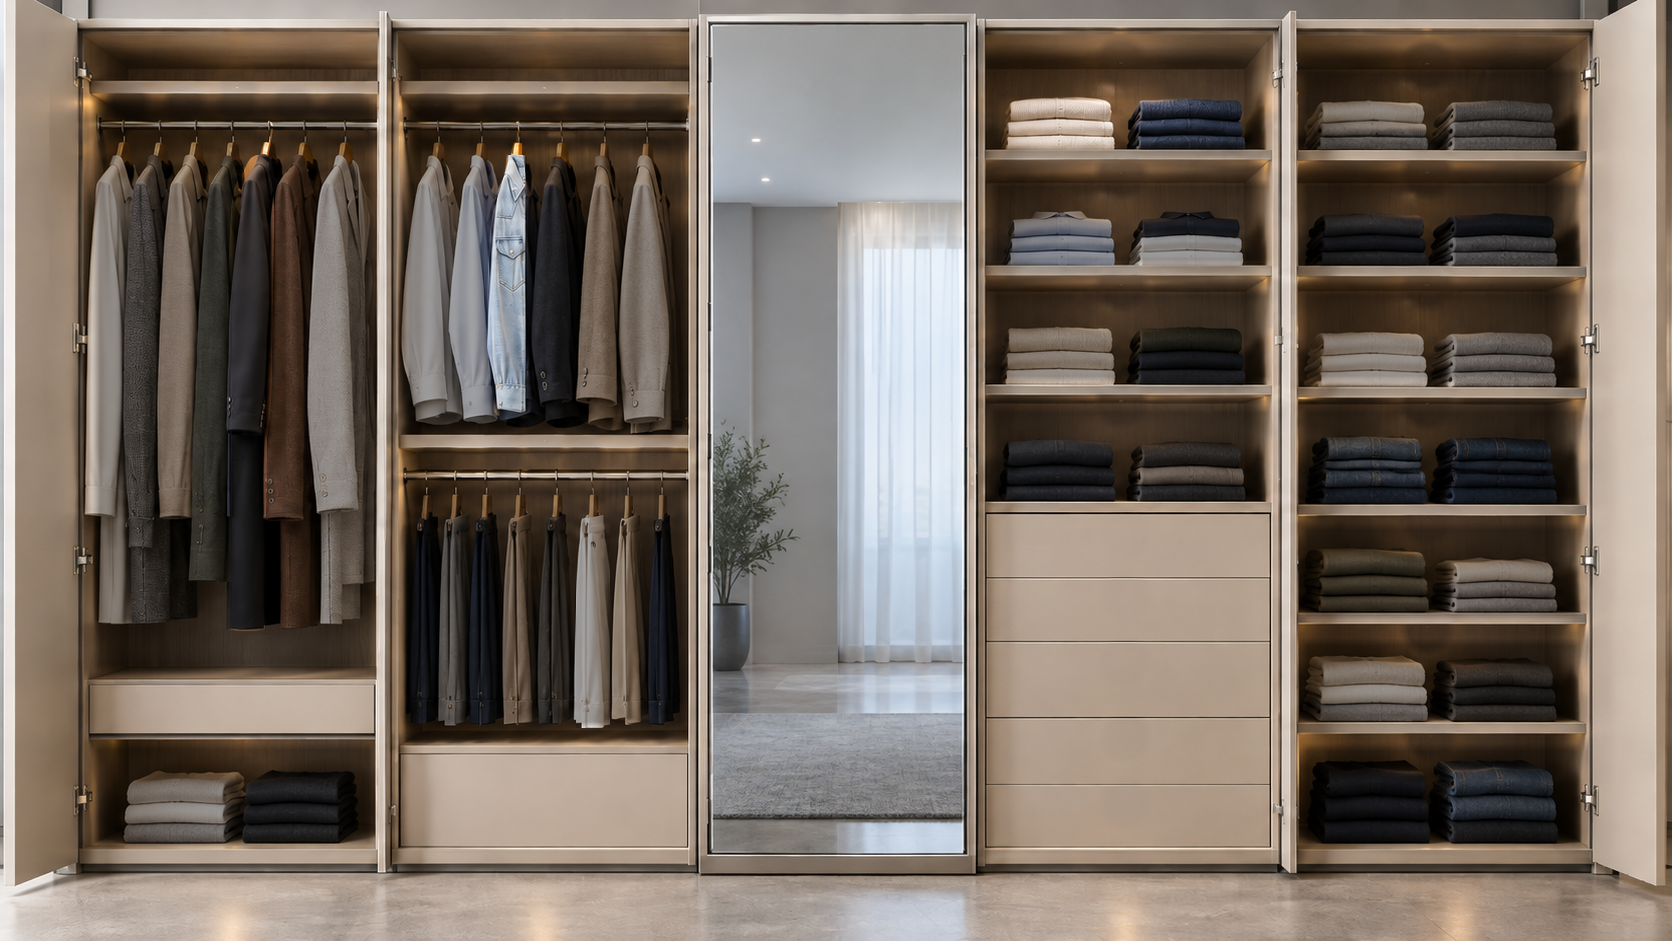
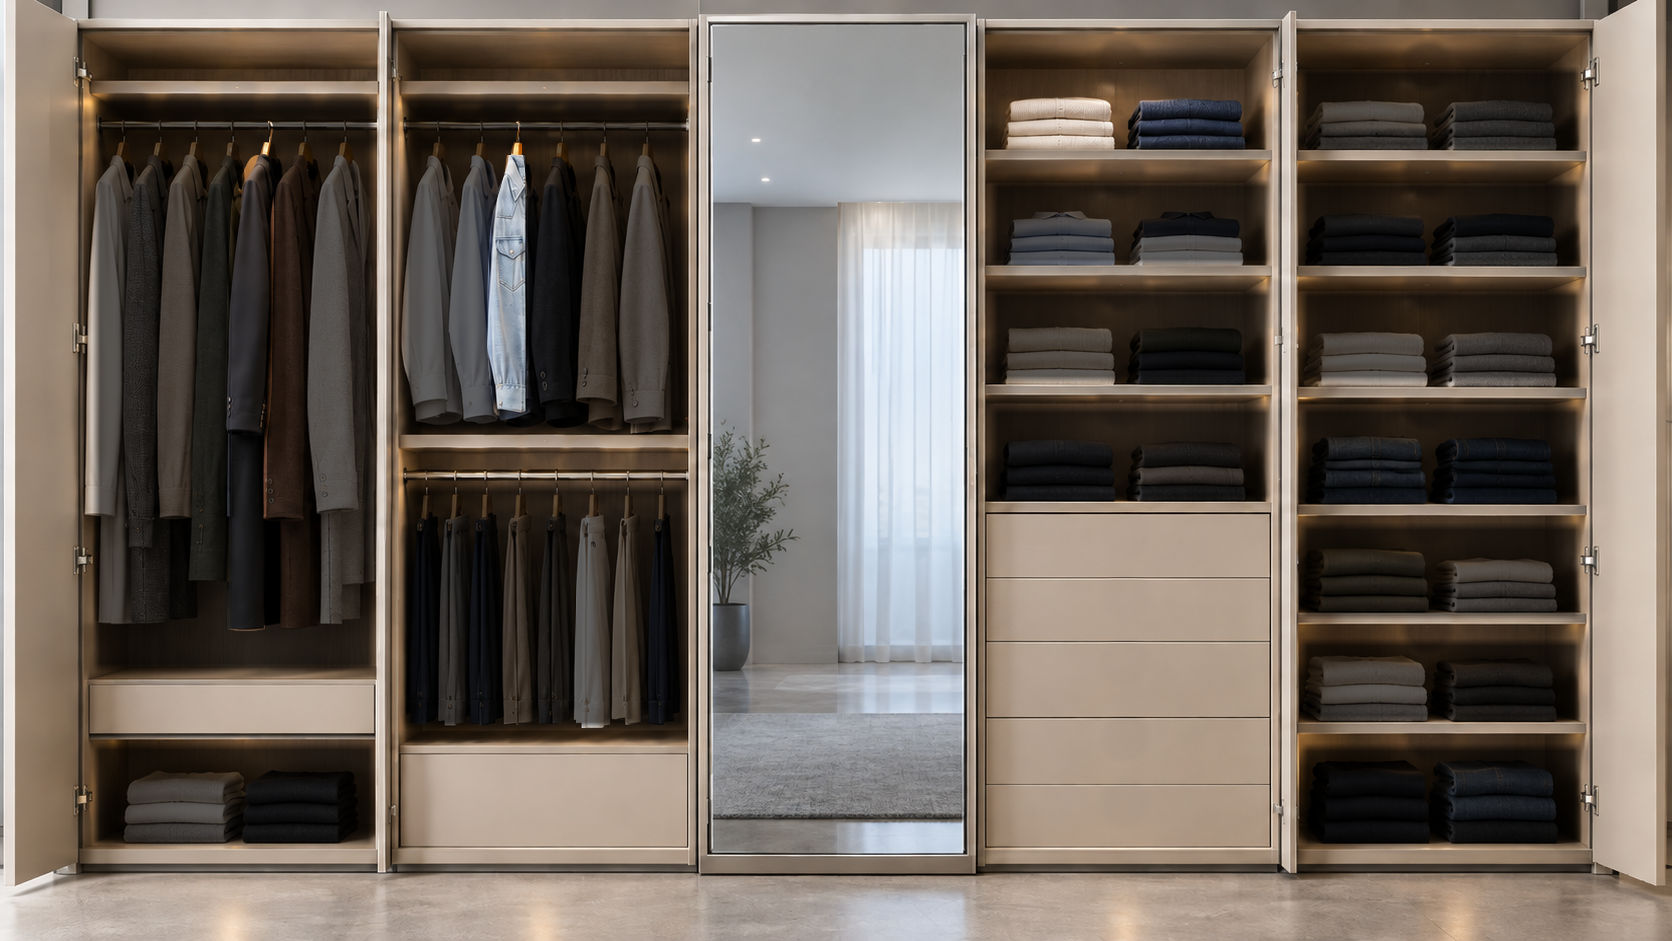
fix: dim unselected wardrobe lighting by sixty percent

diff --git a/docs/handoff/SMART_WARDROBE_CODEX_HANDOFF_2026-10-11/reports/wardrobe-lighting-review-v1/review.html b/docs/handoff/SMART_WARDROBE_CODEX_HANDOFF_2026-10-11/reports/wardrobe-lighting-review-v1/review.html
@@ -11,11 +11,11 @@ body{margin:20px;font:16px/1.5 system-ui;background:#eee9e1;color:#30291f}h1{fon
 <nav aria-label="검수용 의류 선택">
 <button data-selection="" aria-pressed="true">기본 조명</button><button data-selection="A" aria-pressed="false">A5 코트 섹터 찾기</button><button data-selection="B" aria-pressed="false">B3 셔츠 섹터 찾기</button><button data-selection="E1" aria-pressed="false">K1·K2 접힌 니트 찾기</button><button data-selection="A,B,E1" aria-pressed="false">세 칸 함께 찾기</button><button id="unknown">위치 미확인</button>
 </nav>
-<div><label>비선택 칸 감광<input id="dim" type="range" min="0" max="0.6" step="0.02" value="0.34"><output id="dim-value">34%</output></label><label><input id="auto" type="checkbox">검수용 5초 자동 소등</label><label><input id="ui" type="checkbox" checked>실제 미러 UI 캡처 표시</label></div>
+<div><label>비선택 칸 감광<input id="dim" type="range" min="0" max="0.6" step="0.02" value="0.60"><output id="dim-value">60%</output></label><label><input id="auto" type="checkbox">검수용 5초 자동 소등</label><label><input id="ui" type="checkbox" checked>실제 미러 UI 캡처 표시</label></div>
 <p id="status" role="status">이미지 준비 중…</p>
 <div class="stage"><canvas id="scene" width="1672" height="941" aria-label="표면 조명 상태를 합성한 옷장"></canvas></div>
 <p><small>조명 검수 전용 합성입니다. 앱의 실시간 의류 찾기·백엔드 LED·하드웨어 연동 증적이 아닙니다. 중앙 UI도 기존 로컬 화면 캡처입니다. 5초는 검수용 타이머이며 제품 계약을 변경하지 않습니다.</small></p>
 <p><a href="lighting-closeups.png">의류 표면 확대 비교</a> · <a href="REVIEW.md">검수 보고서</a></p>
-<script>window.LIGHTING_REVIEW={"status":"HANGER_SILHOUETTE_REVIEW_PENDING","six_garment_samples_approved":true,"base":"../wardrobe-visual-samples-v1/wardrobe-composite.png","mirror_ui":"../wardrobe-visual-samples-v1/app-before.png","width":1672,"height":941,"scope":"Review-only lighting prototype; no app, API, DB or hardware integration","dim_alpha":0.34,"relight_mix":0.8,"auto_off_ms":5000,"fade_ms":320,"compartments":[{"id":"A","bounds":[92,94,284,578]},{"id":"B","bounds":[402,94,286,339]},{"id":"C","bounds":[402,484,286,246]},{"id":"D","bounds":[92,742,284,105]},{"id":"E1","bounds":[990,66,282,86]},{"id":"E2","bounds":[990,179,282,88]},{"id":"E3","bounds":[990,288,282,96]},{"id":"E4","bounds":[990,405,282,98]},{"id":"F1","bounds":[1300,66,282,86]},{"id":"F2","bounds":[1300,179,282,88]},{"id":"F3","bounds":[1300,288,282,96]},{"id":"F4","bounds":[1300,405,282,98]},{"id":"F5","bounds":[1300,522,282,98]},{"id":"F6","bounds":[1300,638,282,85]},{"id":"F7","bounds":[1300,743,282,105]}],"variants":[{"id":"A","title":"A5 검정 코트 섹터 찾기","bounds":[92,145,284,519],"detail":[241,170,28,430],"target":"Relight INSIDE FIRST cabinet from left: seven long hanging coats between x92..376,y145..664. The selected black coat is fifth at x266. Brighten sleeve and lapel surface with nuanced textile highlights and softly shaded fold valleys; neighboring coats within same compartment receive gentle consistent fill. Keep the wood rails, top light recess, hanger hook row at y120, drawer below y675 and cabinet frames unchanged.","file":"A-relit-context.png","prompt":"Use case: lighting-weather precise relighting ONLY. Image1 is approved photorealistic wardrobe asset composition. Preserve EXACT 1672x941 framing, cabinet geometry, ALL garments\u0027 shape, angle, size, hangers, folds, spacing, perspective, exact camera and colors. No restyling, no new objects, no repositioning. Modify light exposure on the ONE specified compartment only. Soft concealed high-CRI warm-neutral diffuse light from above/front grazes actual fabric surfaces, making stitching, yarn, sleeve creases, lapel folds and contact shadows naturally readable. Light follows garment volume: ridges brighten but inner folds remain shaded. Subtle physical reflected light, NOT flat white overlay, NOT front-facing catalog garments. Never add a visible LED emitter point, glowing dot, halo, bloom, lens flare, rim-light outline, light beam or blown-out white hotspot. No new light at the upper rail. Background illumination of all other compartments, mirror, doors, frames and floor remains exactly as image1; do not dim the whole scene. This is a selected-slot surface-lighting reference: ambient dimming of other slots will be done separately in the native review. Target garment highlights moderately about one stop brighter, dark colors retain their identity, no washed-out fabrics. Relight INSIDE FIRST cabinet from left: seven long hanging coats between x92..376,y145..664. The selected black coat is fifth at x266. Brighten sleeve and lapel surface with nuanced textile highlights and softly shaded fold valleys; neighboring coats within same compartment receive gentle consistent fill. Keep the wood rails, top light recess, hanger hook row at y120, drawer below y675 and cabinet frames unchanged.","tool":"image_gen.imagegen","original_generated_path":"C:\\Users\\aicam\\.codex\\generated_images\\01a11a04-161b-71c1-b091-cdb004c0a66c\\exec-a9697de9-ab72-4110-8a14-f5bfa50e202e.png","sector_bounds":[224,120,54,516],"neighbor_bounds":[288,170,35,430],"review_bounds":[212,118,105,530],"cloth_path":"M 260 155 C 252 154 248 160 243 173 C 234 182 232 194 231 214 L 228 275 L 226 350 L 225 422 L 228 434 L 227 510 L 227 629 Q 245 633 265 629 L 266 538 L 267 438 Q 272 408 272 362 L 274 218 Q 274 190 270 174 L 269 163 Z","hanger_path":"M 264 142 L 271 143 L 268 157 L 260 156 Z","hook_path":"M 270 142 L 272 129 Q 272 122 269 122"},{"id":"B","title":"B3 데님 셔츠 섹터 찾기","bounds":[402,147,286,283],"detail":[496,170,27,225],"target":"Relight ONLY UPPER clothing compartment of SECOND cabinet from left: six short tops between x402..688,y147..430. Selected denim shirt is third at x517. Make its denim yoke seam, chest flap pocket, snaps and naturally folded sleeve surface more readable with soft grazing illumination. Other shirts in same compartment receive compatible diffuse fill. Do not light lower pants compartment, rail at y120, drawer or other cabinets.","file":"B-relit-context.png","prompt":"Use case: lighting-weather precise relighting ONLY. Image1 is approved photorealistic wardrobe asset composition. Preserve EXACT 1672x941 framing, cabinet geometry, ALL garments\u0027 shape, angle, size, hangers, folds, spacing, perspective, exact camera and colors. No restyling, no new objects, no repositioning. Modify light exposure on the ONE specified compartment only. Soft concealed high-CRI warm-neutral diffuse light from above/front grazes actual fabric surfaces, making stitching, yarn, sleeve creases, lapel folds and contact shadows naturally readable. Light follows garment volume: ridges brighten but inner folds remain shaded. Subtle physical reflected light, NOT flat white overlay, NOT front-facing catalog garments. Never add a visible LED emitter point, glowing dot, halo, bloom, lens flare, rim-light outline, light beam or blown-out white hotspot. No new light at the upper rail. Background illumination of all other compartments, mirror, doors, frames and floor remains exactly as image1; do not dim the whole scene. This is a selected-slot surface-lighting reference: ambient dimming of other slots will be done separately in the native review. Target garment highlights moderately about one stop brighter, dark colors retain their identity, no washed-out fabrics. Relight ONLY UPPER clothing compartment of SECOND cabinet from left: six short tops between x402..688,y147..430. Selected denim shirt is third at x517. Make its denim yoke seam, chest flap pocket, snaps and naturally folded sleeve surface more readable with soft grazing illumination. Other shirts in same compartment receive compatible diffuse fill. Do not light lower pants compartment, rail at y120, drawer or other cabinets.","tool":"image_gen.imagegen","original_generated_path":"C:\\Users\\aicam\\.codex\\generated_images\\01a11a04-161b-71c1-b091-cdb004c0a66c\\exec-7012b5cc-414f-426f-81a7-2193e3015b4e.png","sector_bounds":[484,120,52,309],"neighbor_bounds":[458,180,27,220],"review_bounds":[465,118,98,319],"cloth_path":"M 507 155 L 523 155 Q 526 176 527 192 L 528 250 L 529 336 L 528 407 L 533 415 Q 518 428 501 420 L 494 411 L 491 390 Q 486 354 487 310 L 488 271 Q 489 228 494 209 L 501 187 L 505 171 Z","hanger_path":"M 514 142 L 522 143 L 522 156 L 511 156 L 512 148 Z","hook_path":"M 517 142 L 519 129 Q 520 122 517 122"},{"id":"E1","title":"K1·K2 접힌 니트 찾기","bounds":[995,95,260,56],"detail":[1001,94,120,57],"target":"Relight ONLY the two three-layer FOLDED knit stacks on TOP shelf of cabinet immediately RIGHT of central mirror. Clothing area x995..1255,y95..151. Gentle diffuse light grazes sand knit curved fold ribs on left and navy knit on right, exposing yarn/fold contours while preserving narrow layered shadows. Keep EXACT 2 stacks x3 layers and original side perspective. Do not add visible ceiling emitters or light upper empty wood and other shelves.","file":"E1-relit-context.png","prompt":"Use case: lighting-weather precise relighting ONLY. Image1 is approved photorealistic wardrobe asset composition. Preserve EXACT 1672x941 framing, cabinet geometry, ALL garments\u0027 shape, angle, size, hangers, folds, spacing, perspective, exact camera and colors. No restyling, no new objects, no repositioning. Modify light exposure on the ONE specified compartment only. Soft concealed high-CRI warm-neutral diffuse light from above/front grazes actual fabric surfaces, making stitching, yarn, sleeve creases, lapel folds and contact shadows naturally readable. Light follows garment volume: ridges brighten but inner folds remain shaded. Subtle physical reflected light, NOT flat white overlay, NOT front-facing catalog garments. Never add a visible LED emitter point, glowing dot, halo, bloom, lens flare, rim-light outline, light beam or blown-out white hotspot. No new light at the upper rail. Background illumination of all other compartments, mirror, doors, frames and floor remains exactly as image1; do not dim the whole scene. This is a selected-slot surface-lighting reference: ambient dimming of other slots will be done separately in the native review. Target garment highlights moderately about one stop brighter, dark colors retain their identity, no washed-out fabrics. Relight ONLY the two three-layer FOLDED knit stacks on TOP shelf of cabinet immediately RIGHT of central mirror. Clothing area x995..1255,y95..151. Gentle diffuse light grazes sand knit curved fold ribs on left and navy knit on right, exposing yarn/fold contours while preserving narrow layered shadows. Keep EXACT 2 stacks x3 layers and original side perspective. Do not add visible ceiling emitters or light upper empty wood and other shelves.","tool":"image_gen.imagegen","original_generated_path":"C:\\Users\\aicam\\.codex\\generated_images\\01a11a04-161b-71c1-b091-cdb004c0a66c\\exec-d552a2e8-d13e-40e8-9b02-b6d0fbd4d9db.png"}]};</script>
+<script>window.LIGHTING_REVIEW={"status":"HANGER_SILHOUETTE_APPROVED","six_garment_samples_approved":true,"base":"../wardrobe-visual-samples-v1/wardrobe-composite.png","mirror_ui":"../wardrobe-visual-samples-v1/app-before.png","width":1672,"height":941,"scope":"Review-only lighting prototype; no app, API, DB or hardware integration","dim_alpha":0.6,"relight_mix":0.8,"auto_off_ms":5000,"fade_ms":320,"compartments":[{"id":"A","bounds":[92,94,284,578]},{"id":"B","bounds":[402,94,286,339]},{"id":"C","bounds":[402,484,286,246]},{"id":"D","bounds":[92,742,284,105]},{"id":"E1","bounds":[990,66,282,86]},{"id":"E2","bounds":[990,179,282,88]},{"id":"E3","bounds":[990,288,282,96]},{"id":"E4","bounds":[990,405,282,98]},{"id":"F1","bounds":[1300,66,282,86]},{"id":"F2","bounds":[1300,179,282,88]},{"id":"F3","bounds":[1300,288,282,96]},{"id":"F4","bounds":[1300,405,282,98]},{"id":"F5","bounds":[1300,522,282,98]},{"id":"F6","bounds":[1300,638,282,85]},{"id":"F7","bounds":[1300,743,282,105]}],"variants":[{"id":"A","title":"A5 검정 코트 섹터 찾기","bounds":[92,145,284,519],"detail":[241,170,28,430],"target":"Relight INSIDE FIRST cabinet from left: seven long hanging coats between x92..376,y145..664. The selected black coat is fifth at x266. Brighten sleeve and lapel surface with nuanced textile highlights and softly shaded fold valleys; neighboring coats within same compartment receive gentle consistent fill. Keep the wood rails, top light recess, hanger hook row at y120, drawer below y675 and cabinet frames unchanged.","file":"A-relit-context.png","prompt":"Use case: lighting-weather precise relighting ONLY. Image1 is approved photorealistic wardrobe asset composition. Preserve EXACT 1672x941 framing, cabinet geometry, ALL garments' shape, angle, size, hangers, folds, spacing, perspective, exact camera and colors. No restyling, no new objects, no repositioning. Modify light exposure on the ONE specified compartment only. Soft concealed high-CRI warm-neutral diffuse light from above/front grazes actual fabric surfaces, making stitching, yarn, sleeve creases, lapel folds and contact shadows naturally readable. Light follows garment volume: ridges brighten but inner folds remain shaded. Subtle physical reflected light, NOT flat white overlay, NOT front-facing catalog garments. Never add a visible LED emitter point, glowing dot, halo, bloom, lens flare, rim-light outline, light beam or blown-out white hotspot. No new light at the upper rail. Background illumination of all other compartments, mirror, doors, frames and floor remains exactly as image1; do not dim the whole scene. This is a selected-slot surface-lighting reference: ambient dimming of other slots will be done separately in the native review. Target garment highlights moderately about one stop brighter, dark colors retain their identity, no washed-out fabrics. Relight INSIDE FIRST cabinet from left: seven long hanging coats between x92..376,y145..664. The selected black coat is fifth at x266. Brighten sleeve and lapel surface with nuanced textile highlights and softly shaded fold valleys; neighboring coats within same compartment receive gentle consistent fill. Keep the wood rails, top light recess, hanger hook row at y120, drawer below y675 and cabinet frames unchanged.","tool":"image_gen.imagegen","original_generated_path":"C:\Users\aicam\.codex\generated_images\01a11a04-161b-71c1-b091-cdb004c0a66c\exec-a9697de9-ab72-4110-8a14-f5bfa50e202e.png","sector_bounds":[224,120,54,516],"neighbor_bounds":[288,170,35,430],"review_bounds":[212,118,105,530],"cloth_path":"M 260 155 C 252 154 248 160 243 173 C 234 182 232 194 231 214 L 228 275 L 226 350 L 225 422 L 228 434 L 227 510 L 227 629 Q 245 633 265 629 L 266 538 L 267 438 Q 272 408 272 362 L 274 218 Q 274 190 270 174 L 269 163 Z","hanger_path":"M 264 142 L 271 143 L 268 157 L 260 156 Z","hook_path":"M 270 142 L 272 129 Q 272 122 269 122"},{"id":"B","title":"B3 데님 셔츠 섹터 찾기","bounds":[402,147,286,283],"detail":[496,170,27,225],"target":"Relight ONLY UPPER clothing compartment of SECOND cabinet from left: six short tops between x402..688,y147..430. Selected denim shirt is third at x517. Make its denim yoke seam, chest flap pocket, snaps and naturally folded sleeve surface more readable with soft grazing illumination. Other shirts in same compartment receive compatible diffuse fill. Do not light lower pants compartment, rail at y120, drawer or other cabinets.","file":"B-relit-context.png","prompt":"Use case: lighting-weather precise relighting ONLY. Image1 is approved photorealistic wardrobe asset composition. Preserve EXACT 1672x941 framing, cabinet geometry, ALL garments' shape, angle, size, hangers, folds, spacing, perspective, exact camera and colors. No restyling, no new objects, no repositioning. Modify light exposure on the ONE specified compartment only. Soft concealed high-CRI warm-neutral diffuse light from above/front grazes actual fabric surfaces, making stitching, yarn, sleeve creases, lapel folds and contact shadows naturally readable. Light follows garment volume: ridges brighten but inner folds remain shaded. Subtle physical reflected light, NOT flat white overlay, NOT front-facing catalog garments. Never add a visible LED emitter point, glowing dot, halo, bloom, lens flare, rim-light outline, light beam or blown-out white hotspot. No new light at the upper rail. Background illumination of all other compartments, mirror, doors, frames and floor remains exactly as image1; do not dim the whole scene. This is a selected-slot surface-lighting reference: ambient dimming of other slots will be done separately in the native review. Target garment highlights moderately about one stop brighter, dark colors retain their identity, no washed-out fabrics. Relight ONLY UPPER clothing compartment of SECOND cabinet from left: six short tops between x402..688,y147..430. Selected denim shirt is third at x517. Make its denim yoke seam, chest flap pocket, snaps and naturally folded sleeve surface more readable with soft grazing illumination. Other shirts in same compartment receive compatible diffuse fill. Do not light lower pants compartment, rail at y120, drawer or other cabinets.","tool":"image_gen.imagegen","original_generated_path":"C:\Users\aicam\.codex\generated_images\01a11a04-161b-71c1-b091-cdb004c0a66c\exec-7012b5cc-414f-426f-81a7-2193e3015b4e.png","sector_bounds":[484,120,52,309],"neighbor_bounds":[458,180,27,220],"review_bounds":[465,118,98,319],"cloth_path":"M 507 155 L 523 155 Q 526 176 527 192 L 528 250 L 529 336 L 528 407 L 533 415 Q 518 428 501 420 L 494 411 L 491 390 Q 486 354 487 310 L 488 271 Q 489 228 494 209 L 501 187 L 505 171 Z","hanger_path":"M 514 142 L 522 143 L 522 156 L 511 156 L 512 148 Z","hook_path":"M 517 142 L 519 129 Q 520 122 517 122"},{"id":"E1","title":"K1·K2 접힌 니트 찾기","bounds":[995,95,260,56],"detail":[1001,94,120,57],"target":"Relight ONLY the two three-layer FOLDED knit stacks on TOP shelf of cabinet immediately RIGHT of central mirror. Clothing area x995..1255,y95..151. Gentle diffuse light grazes sand knit curved fold ribs on left and navy knit on right, exposing yarn/fold contours while preserving narrow layered shadows. Keep EXACT 2 stacks x3 layers and original side perspective. Do not add visible ceiling emitters or light upper empty wood and other shelves.","file":"E1-relit-context.png","prompt":"Use case: lighting-weather precise relighting ONLY. Image1 is approved photorealistic wardrobe asset composition. Preserve EXACT 1672x941 framing, cabinet geometry, ALL garments' shape, angle, size, hangers, folds, spacing, perspective, exact camera and colors. No restyling, no new objects, no repositioning. Modify light exposure on the ONE specified compartment only. Soft concealed high-CRI warm-neutral diffuse light from above/front grazes actual fabric surfaces, making stitching, yarn, sleeve creases, lapel folds and contact shadows naturally readable. Light follows garment volume: ridges brighten but inner folds remain shaded. Subtle physical reflected light, NOT flat white overlay, NOT front-facing catalog garments. Never add a visible LED emitter point, glowing dot, halo, bloom, lens flare, rim-light outline, light beam or blown-out white hotspot. No new light at the upper rail. Background illumination of all other compartments, mirror, doors, frames and floor remains exactly as image1; do not dim the whole scene. This is a selected-slot surface-lighting reference: ambient dimming of other slots will be done separately in the native review. Target garment highlights moderately about one stop brighter, dark colors retain their identity, no washed-out fabrics. Relight ONLY the two three-layer FOLDED knit stacks on TOP shelf of cabinet immediately RIGHT of central mirror. Clothing area x995..1255,y95..151. Gentle diffuse light grazes sand knit curved fold ribs on left and navy knit on right, exposing yarn/fold contours while preserving narrow layered shadows. Keep EXACT 2 stacks x3 layers and original side perspective. Do not add visible ceiling emitters or light upper empty wood and other shelves.","tool":"image_gen.imagegen","original_generated_path":"C:\Users\aicam\.codex\generated_images\01a11a04-161b-71c1-b091-cdb004c0a66c\exec-d552a2e8-d13e-40e8-9b02-b6d0fbd4d9db.png"}],"approval_note":"2026-10-11 ??? ??: ?? ???? ?? ?? ?? ??, ??? ?? 60%."};</script>
 <script src="review.js"></script>
 </html>

diff --git a/docs/handoff/SMART_WARDROBE_CODEX_HANDOFF_2026-10-11/reports/REMEDIATION_CHECKPOINT.md b/docs/handoff/SMART_WARDROBE_CODEX_HANDOFF_2026-10-11/reports/REMEDIATION_CHECKPOINT.md
@@ -72,3 +72,8 @@ GET /integration/demo-profiles 및 기존 POST /integration/demo-login의 선택
 상품 후보·배치 방향과 행거 A5·B3·C6 및 선반 K1·K2·K3 샘플은 사용자 승인 완료. 조명안 전반은 긍정 평가되었으나 사각형 섹터가 맞지 않는다는 추가 피드백이 있었다. 행거 조명을 선택 옷걸이의 고리·목재부터 어깨·소매·밑단까지 보이는 윤곽을 따라 합성하도록 수정했다. 고정 사각형 조명 마스크는 제거했고 옆옷 감광과 선반 조명은 유지한다. 현재 산출물·재현 명령·승인 게이트는 [표면 조명 검수 보고서](wardrobe-lighting-review-v1/REVIEW.md)를 기준으로 재개한다. 기존 조명 참고 이미지 재사용, 새 상품·조명 이미지 생성 없음. 기본34% 감광, 표면 참고80% 혼합, 320ms 전환, 검수용5초 자동 소등, 새 발광점·글로우·선택 테두리 없음. 브라우저 단일/동시/전환/위치미확인/자동소등 PASS. 읽기 전용 비교에서 선택 의류·옷걸이 밝기 증가, 같은 칸 옆옷 감광, 윤곽 마스크 밖 밝기 증가0, 수납부 밖 픽셀 변경0, 소등 후 기본 복귀 PASS. 실제 윤곽 일치는 사용자 확대 검수 대기이며 앱·서버 LED·하드웨어 검증과 구분한다.
 
 원본은 시각적93자리이며 현재 격리 DB52개와 다르다. 최종 적재 수량·선반 전체 상품 배정은 미확정이다. 사용자 지시로 조명 검수 후 다음 단계로 진행하므로 현재 나머지 에셋 생성·앱·DB·운영 저장소 변경·원격push·배포는 진행하지 않는다. 이전 후보·샘플 검증 증적의 승인 대기 값은 당시 기록이며 현재 게이트는 조명 승인이다. 현재 로컬 앱에는 새 의류 샘플과 조명 검수안을 적용하지 않았다.
+
+
+## 2026-10-11 ?? ?? ? ??? ?? 60%
+
+???? ?????? ?? ??? ????. ??? ?? ??? 34%?? 60%? ????. ??/?? ?? ???? ?????. ?? ??? ??? ?? ??? ?? ??? ??? ??? ?? ?? ? ???? DB ????. ?? push?????? DB ??? ???? ???.

diff --git a/docs/handoff/SMART_WARDROBE_CODEX_HANDOFF_2026-10-11/reports/wardrobe-lighting-review-v1/STATUS.md b/docs/handoff/SMART_WARDROBE_CODEX_HANDOFF_2026-10-11/reports/wardrobe-lighting-review-v1/STATUS.md
@@ -1,7 +1,5 @@
-# 의류 찾기 조명 검수
+# ?? ?? ?? ??
 
-의류 6개와 현재 진행상황은 사용자 승인 완료. 다음 게이트는 의류 표면 조명 검수다.
+2026-10-11 ??? ?? ??. ??? ?????? ????? ??? ??? ??? ??? 60% ????(?? ??? ? 40% ??). ?? ????? ?? ? ?? ??? ????.
 
-검정 코트 칸·데님 셔츠 칸·접힌 니트 칸의 표면 조명 참고 이미지를 생성하고, 비선택 수납칸 감광·동시 선택·자동 소등을 검수 화면에서 연결한다. 앱·DB·운영 저장소 반영과 나머지 에셋 생성은 조명 검수 후 진행한다.
-
-현재 상태: 사각형 섹터 정합성 피드백을 반영해 행거 마스크를 선택 옷걸이·금속 고리·의류 윤곽으로 교체했다. 옆옷 감광과 선반 조명 유지. 수정본 검수 대기. 재개 기준은 `REVIEW.md`와 `lighting.json`의 윤곽 경로다.
+??? ??? `lighting.json`? `review.js`?. ?? 6?? ?? ?? ???? ?????? ??? ?? ? ???? DB ??? ?? ?? ???. ?? ?? ??? ?? ??DB ?? ??? ???? ???.
